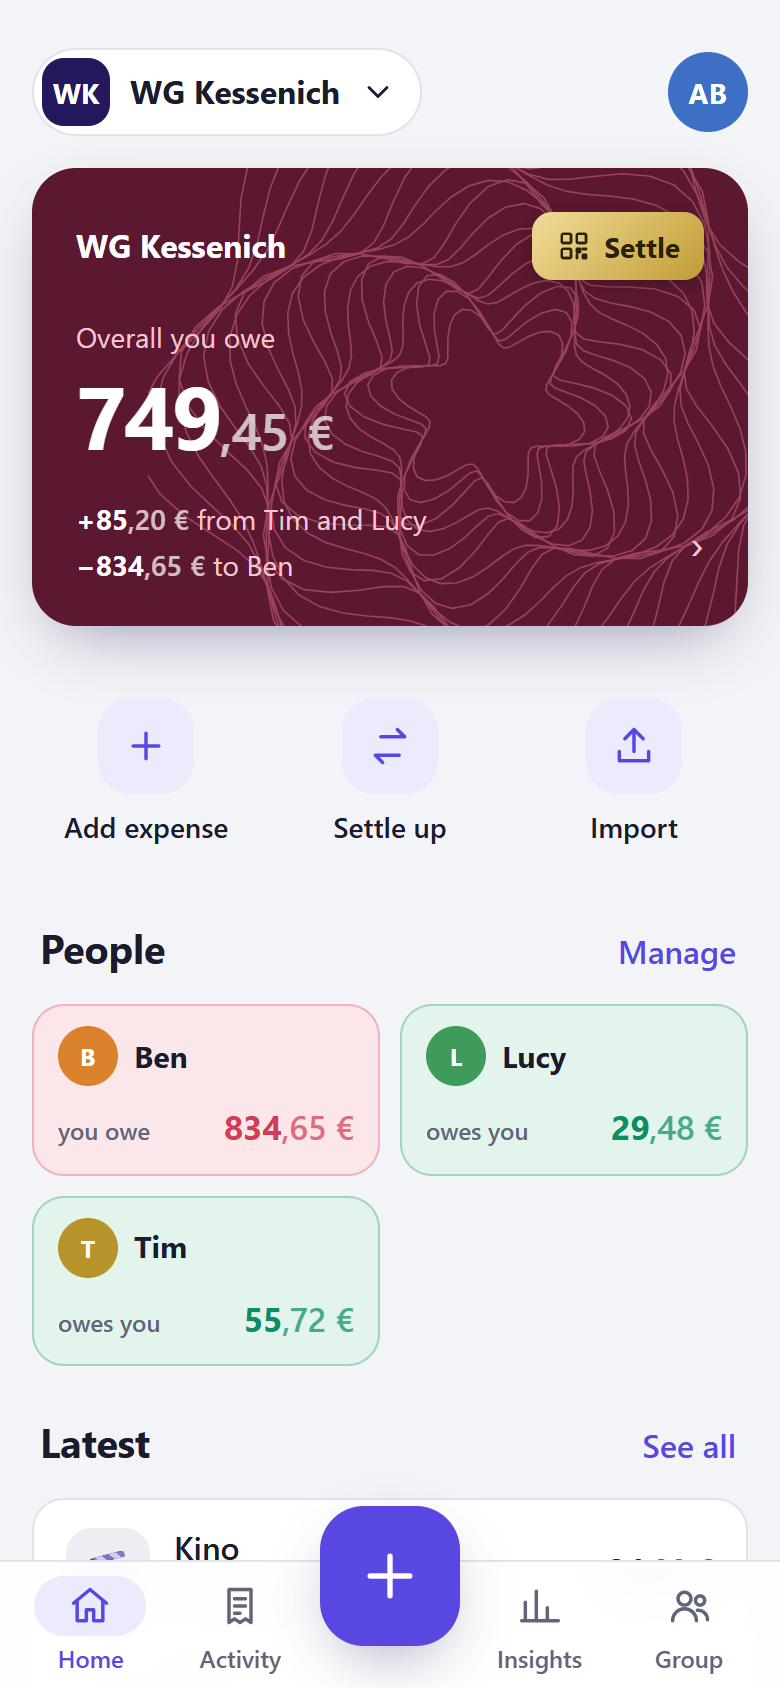
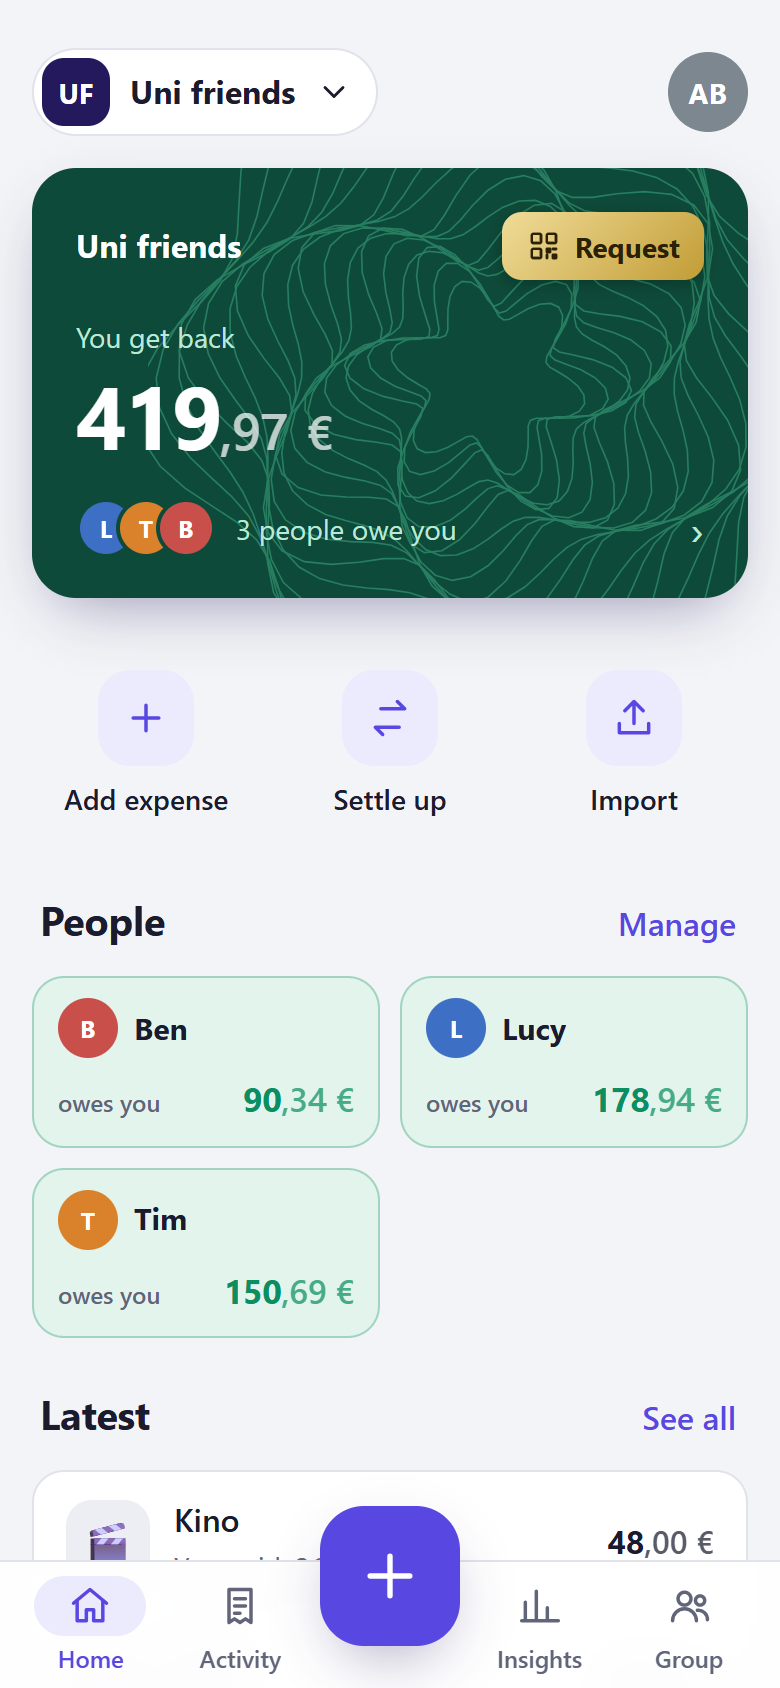
Tell the real story in the README, uni friends screenshots

diff --git a/README.md b/README.md
@@ -1,58 +1,56 @@
 # SplitLedger
 
-My flatmates and I split almost everything. Rent, groceries, the odd pizza night, train tickets to
-Berlin. For a long time we used Splitwise, and three things about it kept bugging me.
+A couple of my university group mates and I do a lot together. Dinners, cinema, bowling, birthdays, trips and so on. On many occasions, someone pays for everyone, so we kept track in Splitwise, and for a while the free version was good enough.
 
-Every shared payment already sat in somebody's bank account, and we still typed each one in again by
-hand. Anyone could quietly edit or delete an old expense and nobody would ever know. And when it was
-time to pay up, I was copying IBANs from a chat into my banking app, hoping I got the digits right.
-Searching for "what did we pay for that Berlin trip?" needed the paid plan on top.
+Then we went on a trip, and it wasn't. The free plan only lets you add a few expenses a day, and on a trip you have that many before lunch. Flights, the place we stayed, meals, tickets, trains. We ended up writing things down in our notes app and typing them in days later, which is exactly the job the app was supposed to do for us. Sorting it all out afterwards was no better. I wanted to look up what we paid for one dinner, and search turned out to be a paid feature. So were the charts that show where the money actually went. And paying each other back still meant copying an IBAN out of a chat into my banking app and hoping I got every digit right.
 
-So I built my own. SplitLedger is a shared-expenses app for a group of friends that treats the money
-the way a bank would: every change is recorded, nothing is ever overwritten, and settling up is one
-scan in your banking app.
+So I built my own app. SplitLedger is a shared-expenses app for a group of friends. You add as many expenses as you like, search and insights are there for everyone, and paying someone back is one scan with your banking app. Underneath, it treats the money the way a bank would: every change is recorded and nothing is ever overwritten.
 
 <p>
-  <img src="docs/evidence/2026-10-26-home.png" alt="Home: the group card shows what you owe overall, with money in both directions spelled out, and a tile for every person" width="230">
+  <img src="docs/evidence/2026-10-26-home.png" alt="Home: the group card shows what you get back overall, and a tile for every person with where you two stand" width="230">
   <img src="docs/evidence/2026-10-26-add-expense.png" alt="Adding an expense: the amount, a category suggested from the shop name, who paid and who shares" width="230">
-  <img src="docs/evidence/2026-10-26-settle-up.png" alt="Settling up: Tim scans a GiroCode with his banking app, or copies the IBAN" width="230">
+  <img src="docs/evidence/2026-10-26-settle-up.png" alt="Settling up: Ben scans the QR code with a banking app and everything is filled in, or copies the IBAN" width="230">
 </p>
 
 ## What it does
 
+**No limit on a busy day.** Add ten expenses in an afternoon if that's what the day was. The form
+starts with the amount, guesses the category from the name (Lidl is groceries, DB is transport),
+splits equally by default and shows everyone's share before you save. Shares, exact amounts and
+leaving someone out are one tap away.
+
+**Settle with a scan.** "Ben owes you 90,34 €" comes with a GiroCode, the QR code German banking apps
+read for transfers. Ben scans it and my name, IBAN, the amount and a reference are already filled
+in. Nothing to type, nothing to get wrong, just check and send. If a banking app can't scan it, one
+tap copies the IBAN.
+
+**Search, without paying for it.** "Einkauf" finds "Einkäufe", a typo like "Pizerria" still finds
+"Pizzeria Bella Napoli", and you can filter by person, category, date or amount. Across the whole
+history, for everyone in the group.
+
+**Insights, also free.** What the group spent each month next to your own share, which categories
+the money went to, and who paid how much.
+
 **Import instead of typing.** I upload the CSV export from my online banking and every outgoing
-payment shows up as a candidate that only I can see. I share the ones that were for the flat and
+payment shows up as a candidate that only I can see. I share the ones that were for the group and
 ignore the rest. Importing the same file twice, or one that overlaps last month's, adds nothing new,
 and two identical coffees on the same day still count as two.
 
-**Settle with a scan.** "Lucy owes you 29,48 €" comes with a GiroCode, the QR code German banking apps
-read for transfers. Lucy scans it, finds name, IBAN, amount and reference already filled in, checks
-and sends. If she'd rather type it, one tap copies the IBAN.
-
-**A history nobody can rewrite.** Anyone can fix a mistake, but fixing never erases. Edit an
-expense and the old version stays in the history, crossed out, with who changed it and when. The
-home card opens a timeline of every expense and payment with what each one did to your balance, so
-you can see exactly how you ended up owing 749,45 €.
-
-**Search that understands German.** "Einkauf" finds "Einkäufe", a typo like "Pizerria" still finds
-"Pizzeria Napoli", and you can filter by person, category, date or amount. Free, for the whole history.
+**A history nobody can rewrite.** Anyone can fix a mistake, but fixing never erases. When the cinema
+got entered twice, deleting one copy left it in the history, crossed out, with who deleted it and
+when. The home card opens a timeline of every expense and payment with what each one did to your
+balance, so you can always see how you got to the number on the card.
 
 **Joining takes ten seconds.** I add a friend by name and send them a link on WhatsApp. They pick a
 username and password and they're in. Forgot your password? Anyone in your group can make you a
 one-time reset link.
 
-**It feels like an app.** It installs to the home screen, has a dark mode, categories that guess
-themselves from the shop name (REWE is groceries, DB is transport), monthly insights with your own
-share, and a page for every person showing where you two stand.
+**It feels like an app.** It installs to the home screen, has a dark mode, and every person gets a
+page showing where you two stand, with the expenses and payments between you.
 
 <p>
-  <img src="docs/evidence/2026-10-26-how-it-added-up.png" alt="How it added up: every expense and payment with what it did to your balance" width="230">
   <img src="docs/evidence/2026-10-26-activity.png" alt="Activity: the whole history by month, with a deleted expense crossed out and who deleted it" width="230">
-  <img src="docs/evidence/2026-10-26-person.png" alt="A person's page: where you two stand, with settle up, and the history between you" width="230">
-</p>
-<p>
   <img src="docs/evidence/2026-10-26-insights.png" alt="Insights: spending per month for the group and for you, and per category" width="230">
-  <img src="docs/evidence/2026-10-26-search.png" alt="Search with a typo: Pizerria finds Pizzeria Napoli" width="230">
 </p>
 
 It's a personal project for friends, not a payment service. No money moves through it and it never

diff --git a/docs/verification.md b/docs/verification.md
@@ -638,3 +638,8 @@ New README and screenshots (`docs/evidence/2026-10-26-*.png`), taken at 390×844
 API with three friends who joined through their invite links. Taking them showed the insights
 category bars had never been drawn: the coloured part was an inline `span`, which ignores `width`.
 Both bar elements are blocks now. `web`: 79 unit tests passed, build OK.
+
+Later the same day the screenshots were taken again with a group of uni friends (a trip and the
+weeks after it, one expense entered twice and deleted, one payment by GiroCode). The add-expense
+sheet is taller than a 390×844 screen, so that one is taken at 430×932, which has the same
+proportions and shows the Add button. No code changes.
